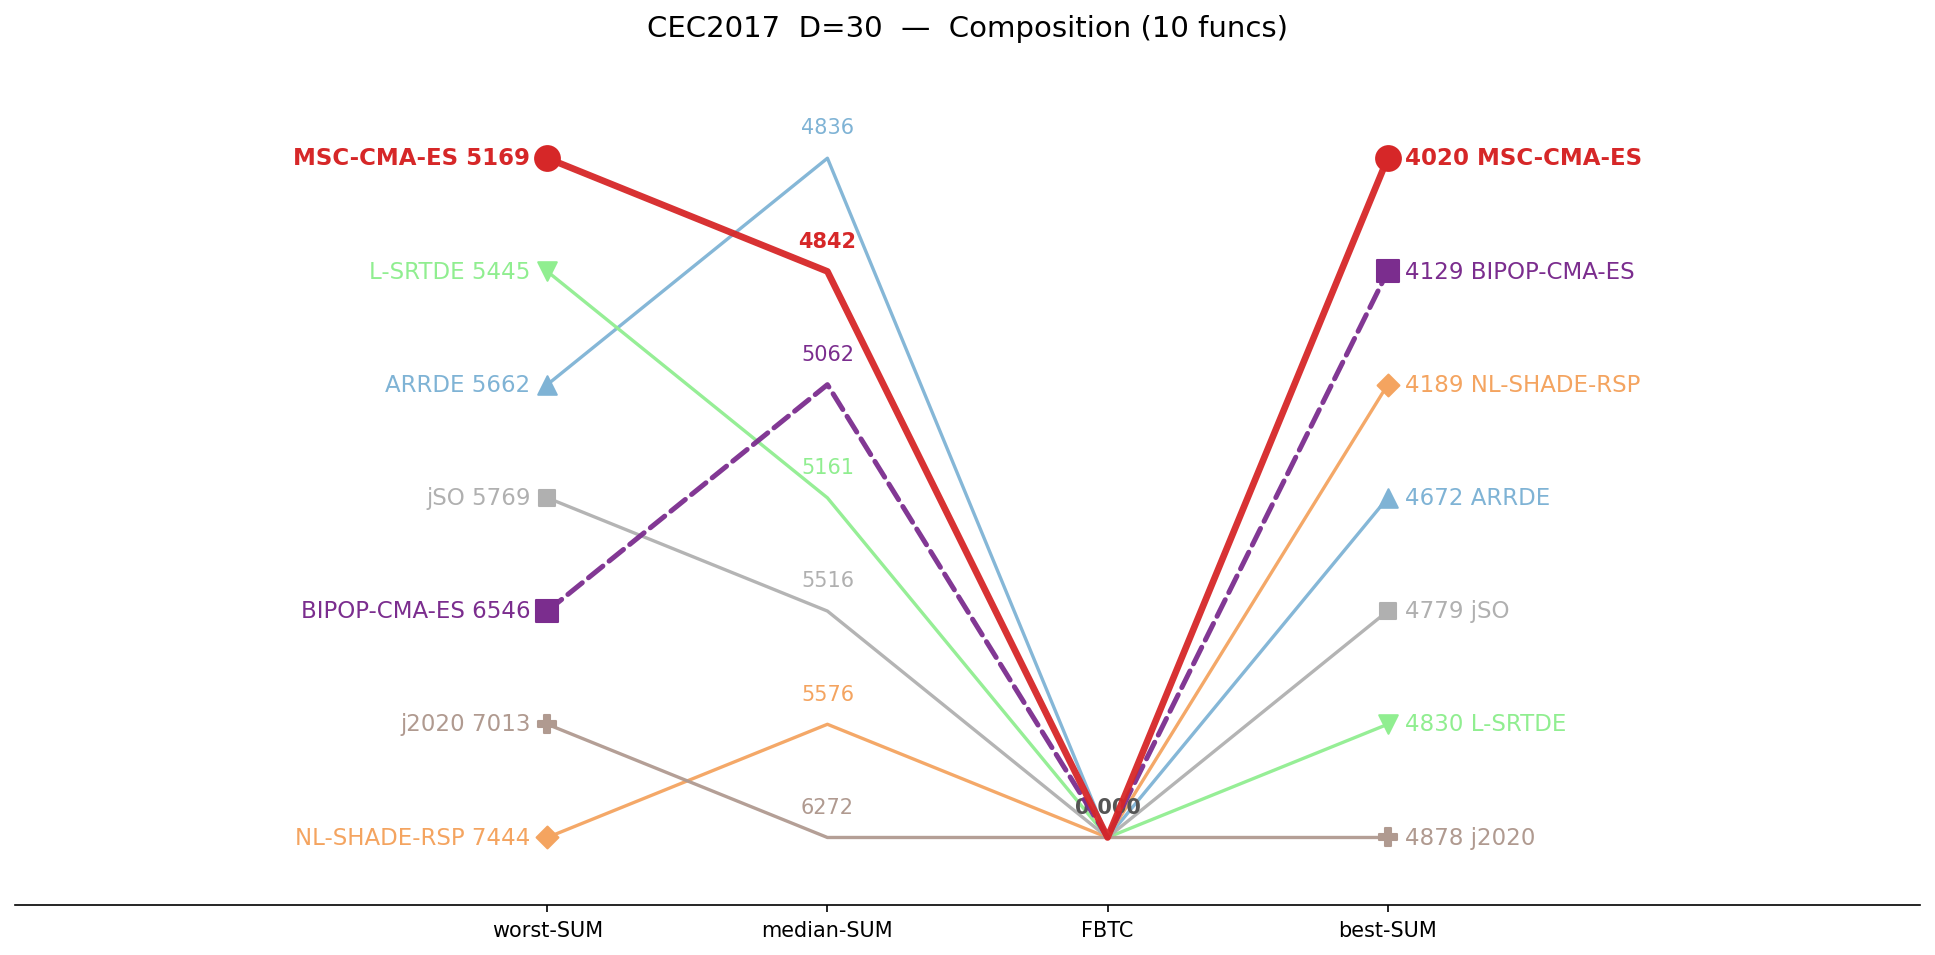
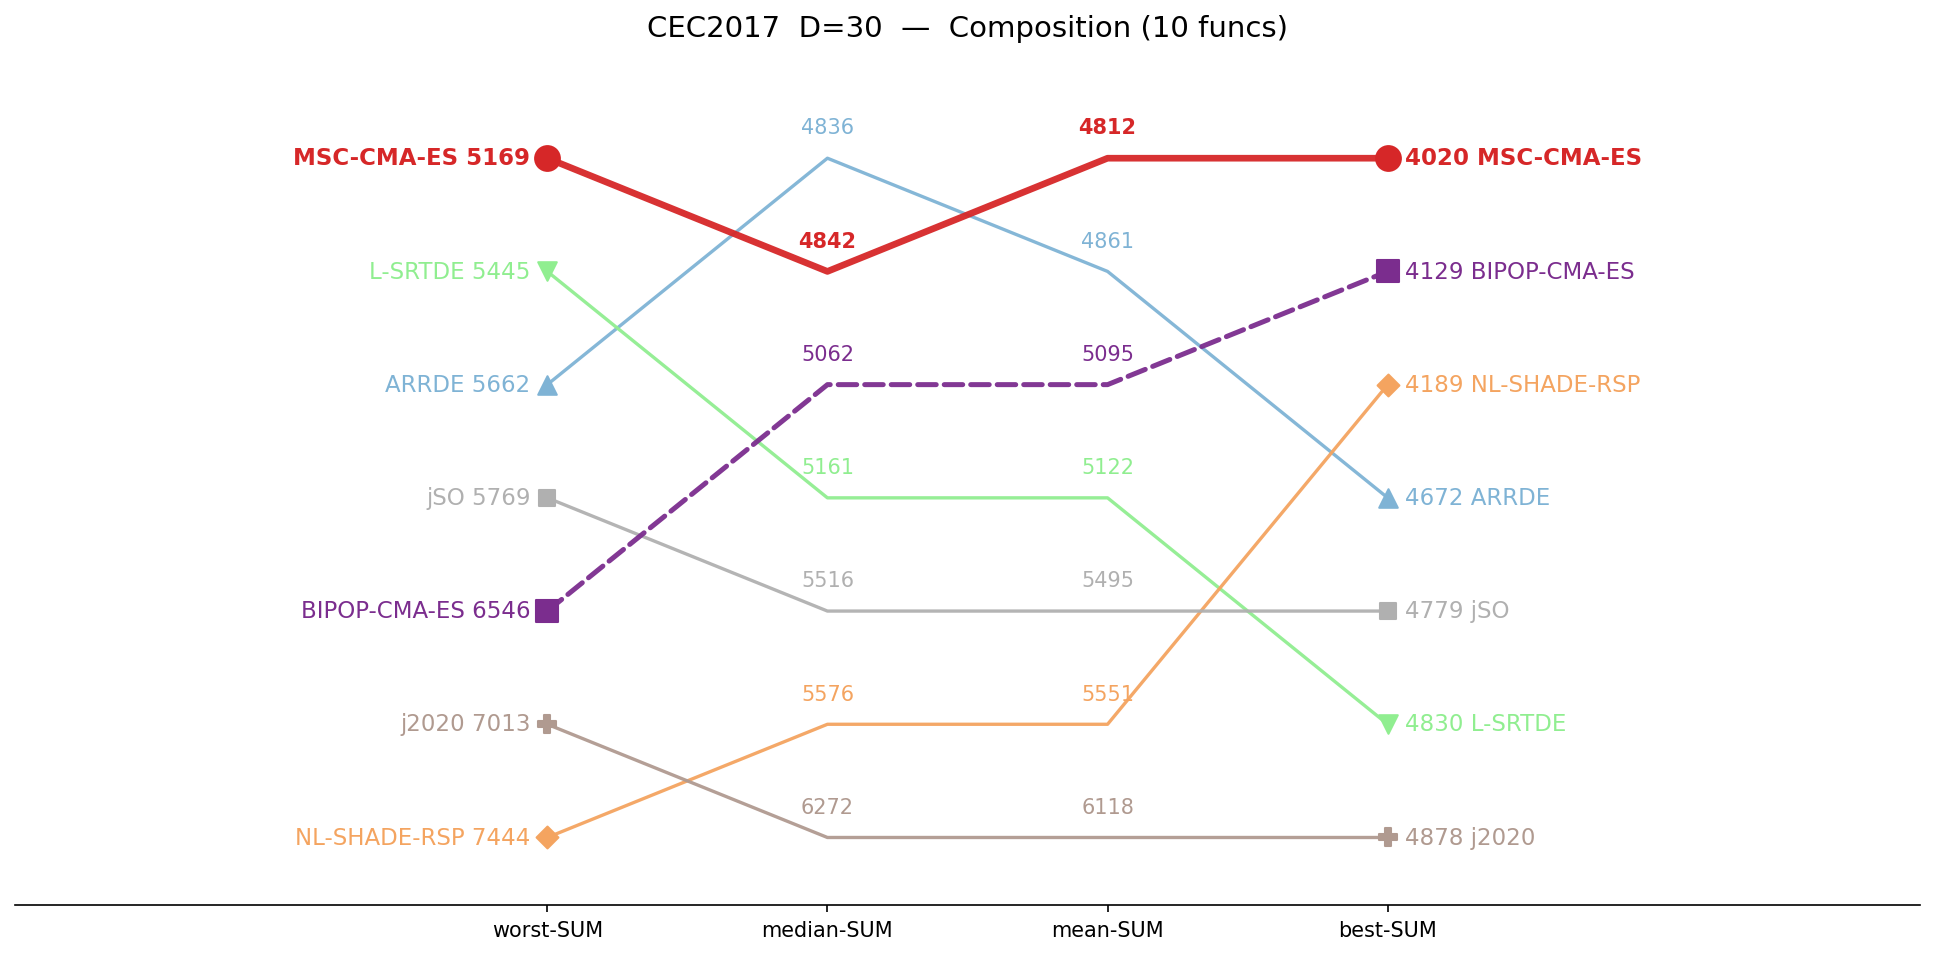
Apply FBTC->mean-SUM axis switch; regenerate d30 rank figures

diff --git a/analysis/cell_report.py b/analysis/cell_report.py
@@ -191,17 +191,25 @@ def _tie_groups(ranked, s, rtol=1e-9, atol=1e-9):
 
 def fig_ranking(data, algos, suite, cls, out_path, tie_rtol=1e-9, tie_atol=1e-9):
     members = class_members(suite, cls)
+    # Coverage axis: FBTC unless every algorithm's class-FBTC is ~0
+    # (same rule as suite_report), in which case mean-SUM is shown instead.
+    fbtc_s, common = class_sums(data, algos, members, 'FBTC')
+    if not common:
+        return False
+    use_fbtc = any(v > 1e-12 for v in fbtc_s.values())
+    cov = ('FBTC', 'FBTC', True) if use_fbtc else ('mean-SUM', 'mean', False)
+    rank_axes = [RANK_AXES[0], RANK_AXES[1], cov, RANK_AXES[3]]
     sums = {}
-    for label, key, hb in RANK_AXES:
+    for label, key, hb in rank_axes:
         s, common = class_sums(data, algos, members, key)
         sums[label] = (s, hb)
     if not common:
         return False
 
-    nax = len(RANK_AXES)
+    nax = len(rank_axes)
     ypos = {}
     axis_groups = {}
-    for ai, (label, key, hb) in enumerate(RANK_AXES):
+    for ai, (label, key, hb) in enumerate(rank_axes):
         s, _ = sums[label]
         ranked = sorted(algos, key=lambda a: (-s[a] if hb else s[a]))
         groups = _tie_groups(ranked, s, rtol=tie_rtol, atol=tie_atol)
@@ -270,7 +278,7 @@ def fig_ranking(data, algos, suite, cls, out_path, tie_rtol=1e-9, tie_atol=1e-9)
                            edgecolor='#2c3e50', linewidth=1.6,
                            s=150, zorder=7)
 
-    for ai, (label, key, hb) in enumerate(RANK_AXES):
+    for ai, (label, key, hb) in enumerate(rank_axes):
         s, _ = sums[label]
         groups = axis_groups[ai]
         for grp in groups:
@@ -303,7 +311,7 @@ def fig_ranking(data, algos, suite, cls, out_path, tie_rtol=1e-9, tie_atol=1e-9)
                 ax.text(ai, y + 0.18, _fmt(v), ha='center', va='bottom',
                         color=color, fontweight=bold, fontsize=10)
     ax.set_xticks(xs)
-    ax.set_xticklabels([a[0] for a in RANK_AXES], fontsize=13)
+    ax.set_xticklabels([a[0] for a in rank_axes], fontsize=13)
     ax.set_xlim(-1.9, nax - 1 + 1.9)
     ax.set_ylim(-0.8, len(algos) - 0.2)
     ax.set_yticks([])